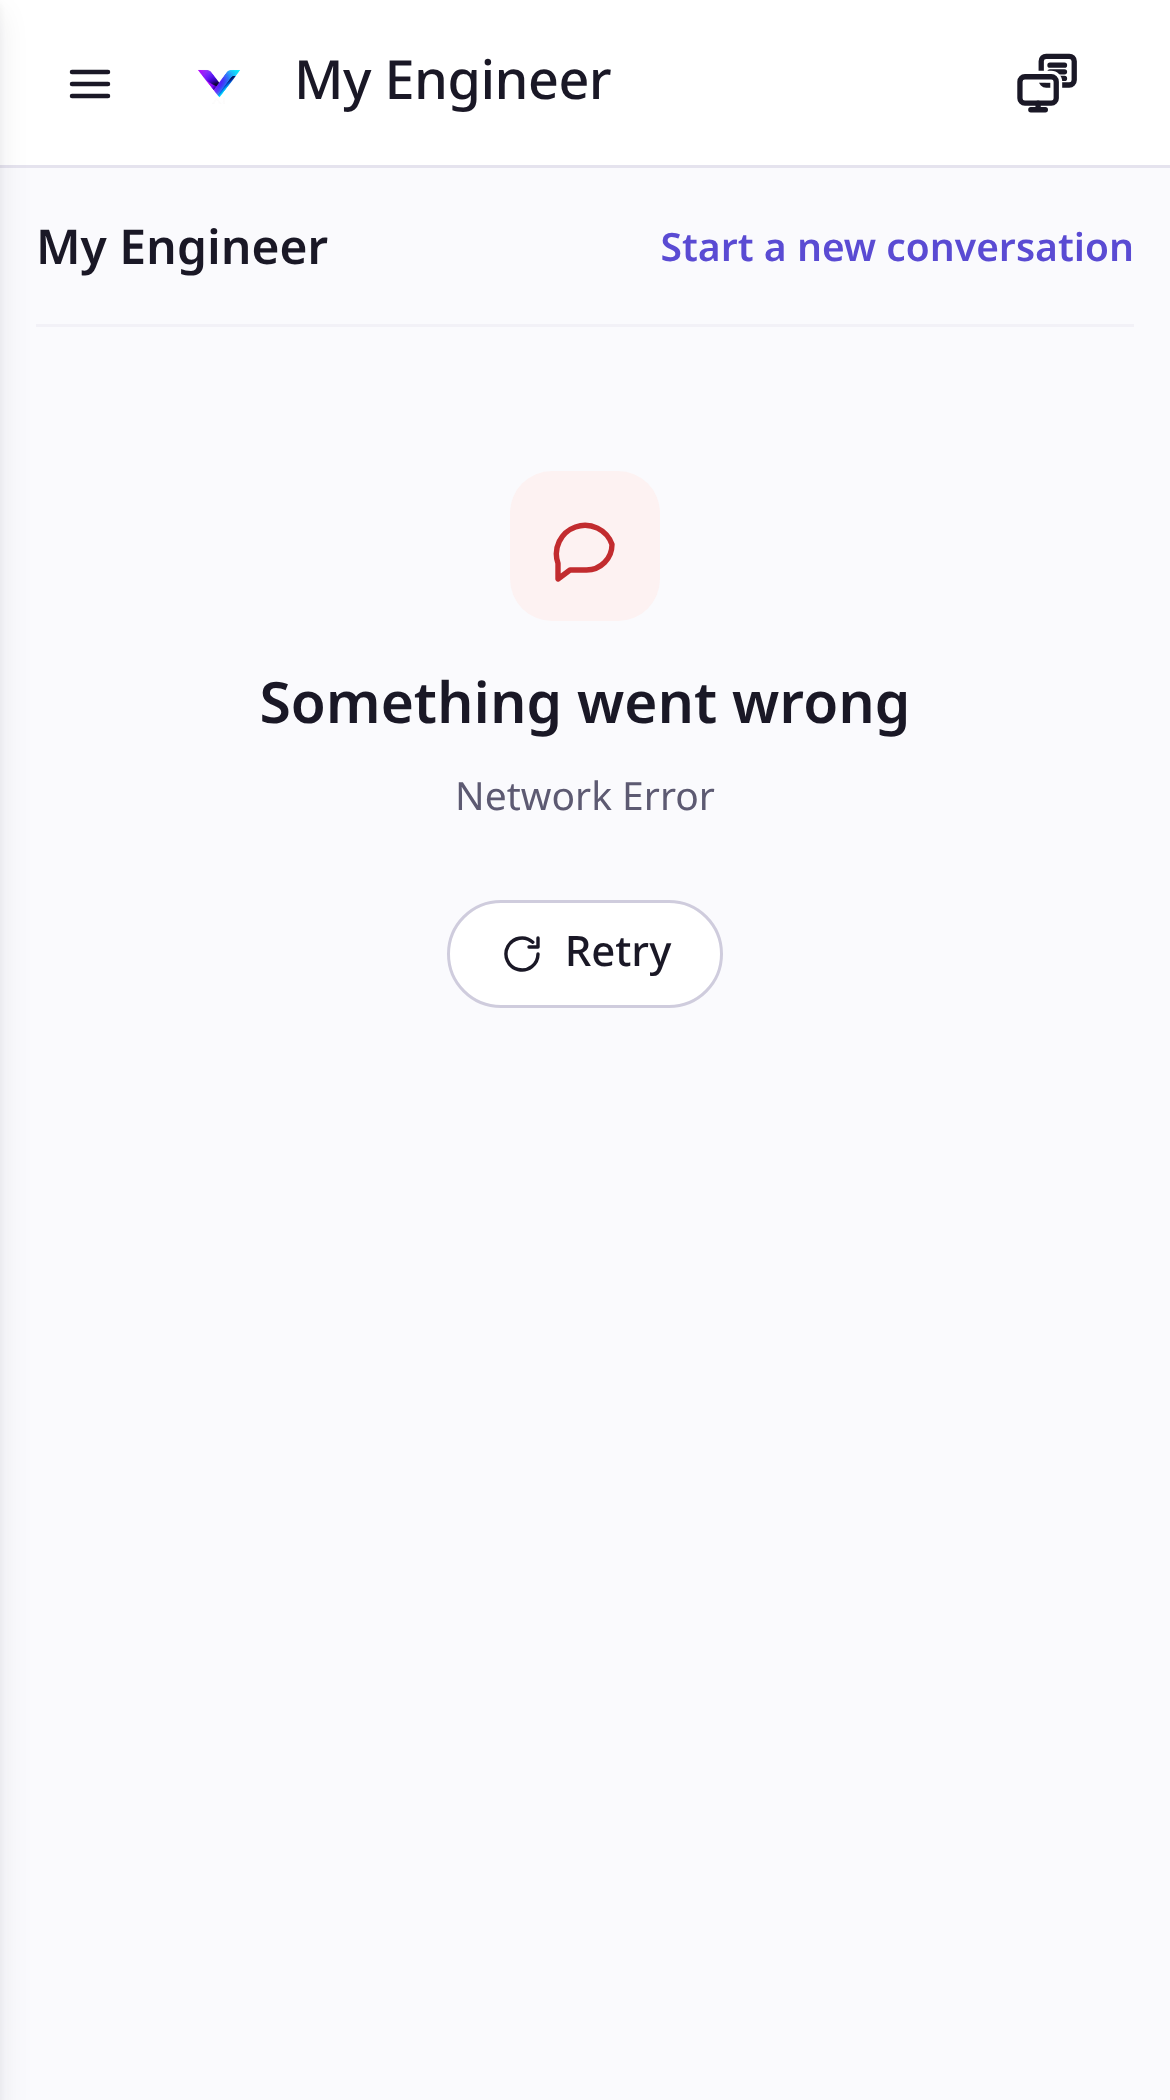
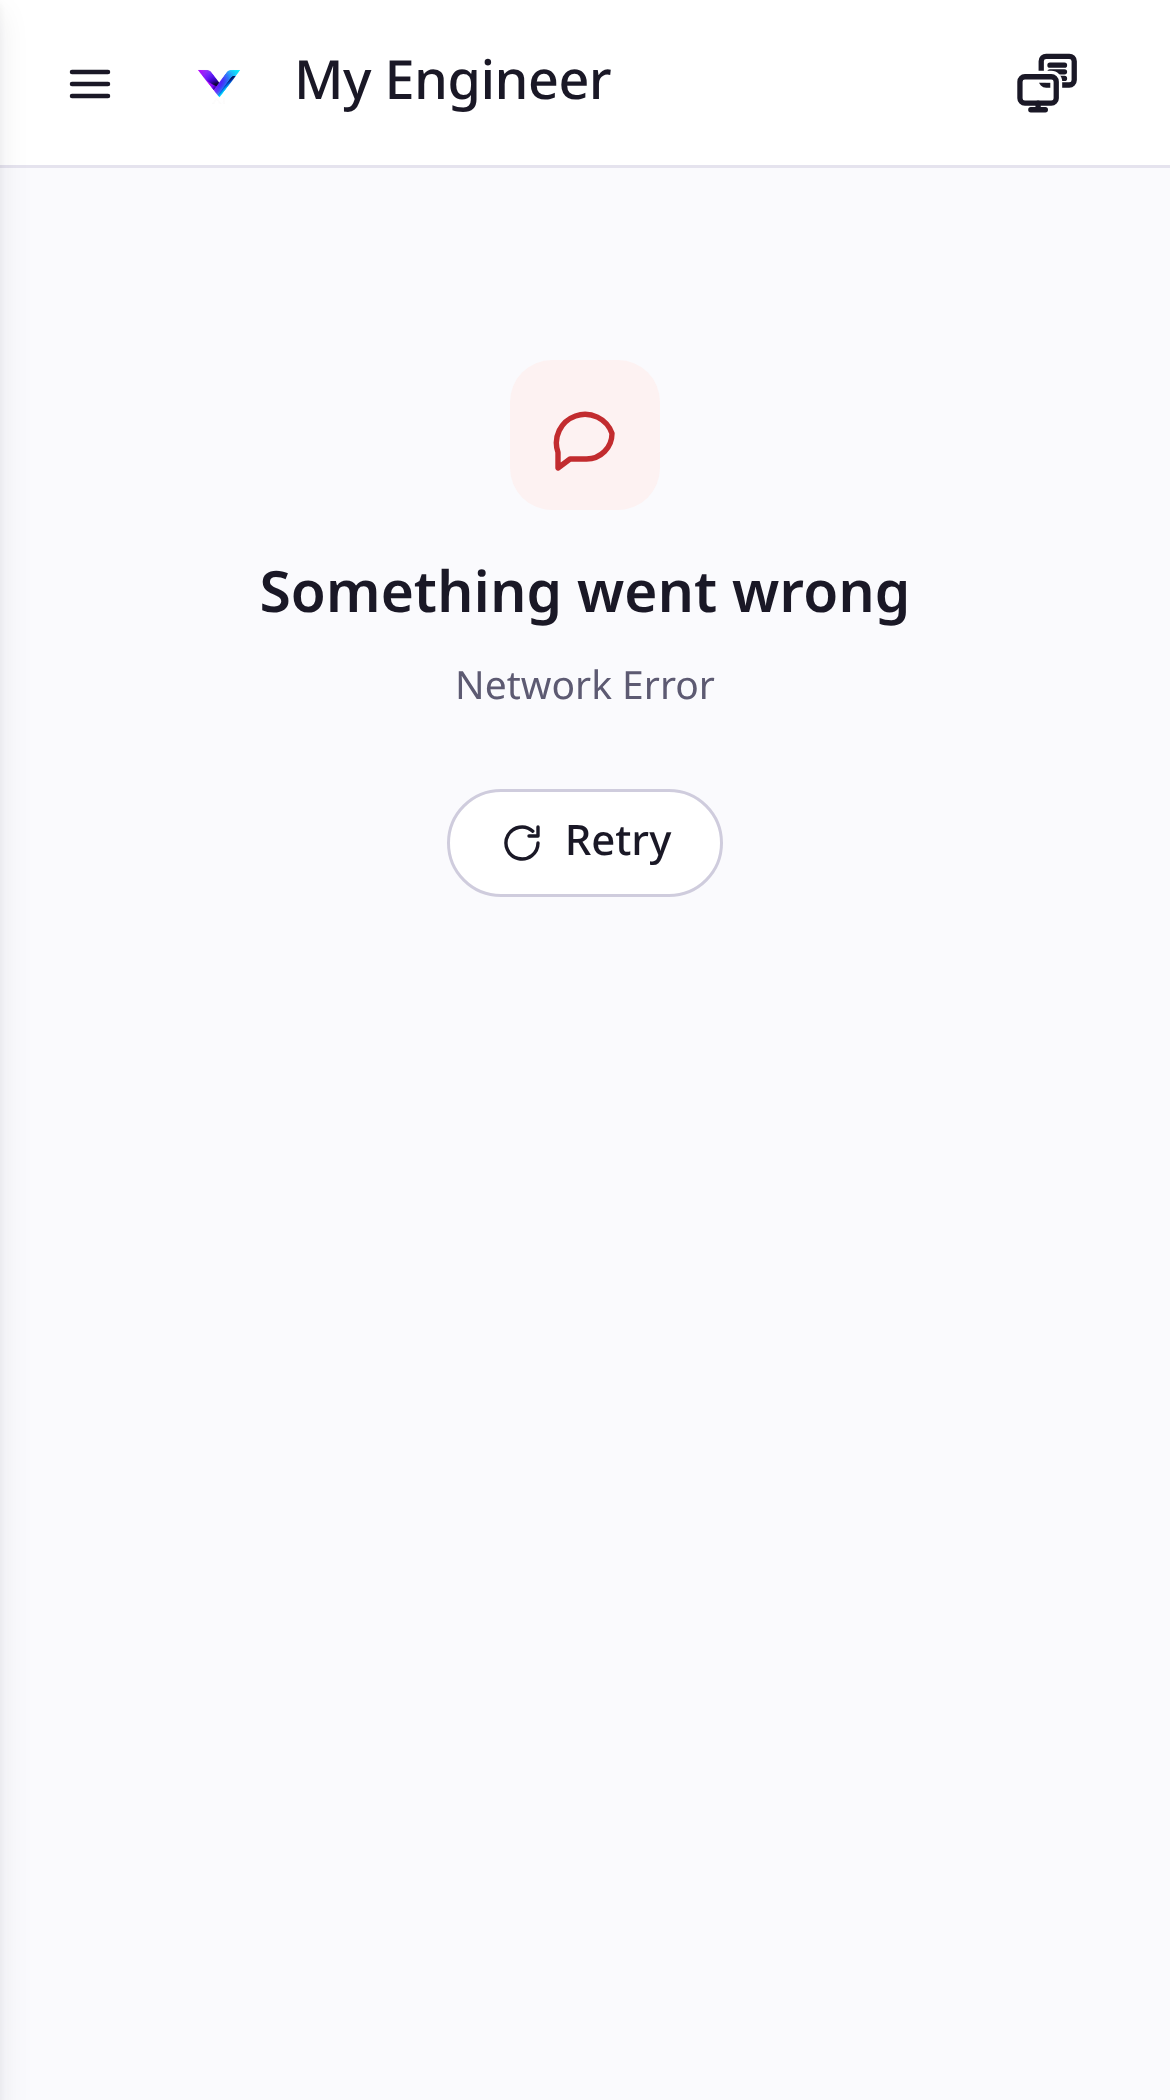
Chat: no thread header around a lone warning
A warning with nothing said above it is not a conversation, so the row naming
the thread and offering a fresh start is not drawn. It returns as soon as a real
turn exists.

diff --git a/apps/web/src/pages/chat/ChatPage.test.tsx b/apps/web/src/pages/chat/ChatPage.test.tsx
@@ -525,6 +525,29 @@ describe('a message that does not reach the server', () => {
     expect(screen.getByLabelText('Message').getAttribute('placeholder')).toBe('Type a message…');
   });
 
+  it('leaves the warning alone on screen, with no thread header above it', async () => {
+    startRun.mockRejectedValue(new TransportError('offline', 'You are offline.'));
+    renderPage();
+    type('Find the bug');
+    fireEvent.click(screen.getByRole('button', { name: 'Send message' }));
+    await screen.findByText('Something went wrong');
+
+    // Nothing was said, so there is no thread to name and nothing to start over.
+    expect(screen.queryByText('Start a new conversation')).toBeNull();
+    expect(screen.queryByRole('heading', { name: 'My Engineer' })).toBeNull();
+  });
+
+  it('puts the header back once a real turn exists', async () => {
+    startRun.mockResolvedValue(run({ status: 'completed' }));
+    renderPage();
+    type('Find the bug');
+    fireEvent.click(screen.getByRole('button', { name: 'Send message' }));
+    await screen.findByText('Here is what I found.');
+
+    expect(screen.getByRole('heading', { name: 'My Engineer' })).toBeDefined();
+    expect(screen.getByText('Start a new conversation')).toBeDefined();
+  });
+
   it('puts no brand mark inside the error state', async () => {
     startRun.mockRejectedValue(new TransportError('offline', 'You are offline.'));
     renderPage();

diff --git a/apps/web/src/pages/chat/ChatThread.tsx b/apps/web/src/pages/chat/ChatThread.tsx
@@ -131,14 +131,23 @@ export function ChatThread({
   onRetry,
   onNewChat,
 }: ChatThreadProps) {
+  // A lone warning is not a conversation: nothing has been said, so the row that
+  // names the thread and offers to start another one would be chrome around a
+  // single error. It appears once there is a real turn to head.
+  const hasRealTurn = messages.some(
+    (message) => message.role === 'user' || message.failedQuestion == null,
+  );
+
   return (
     <div className="v-chat__thread">
-      <div className="v-chat__thread-head">
-        <h1 className="v-chat__thread-title">{agentName}</h1>
-        <button type="button" className="v-chat__link" onClick={onNewChat}>
-          Start a new conversation
-        </button>
-      </div>
+      {hasRealTurn ? (
+        <div className="v-chat__thread-head">
+          <h1 className="v-chat__thread-title">{agentName}</h1>
+          <button type="button" className="v-chat__link" onClick={onNewChat}>
+            Start a new conversation
+          </button>
+        </div>
+      ) : null}
       <div className="v-chat__turns" role="log" aria-live="polite" aria-relevant="additions">
         {messages.map((message) => (
           <Message
